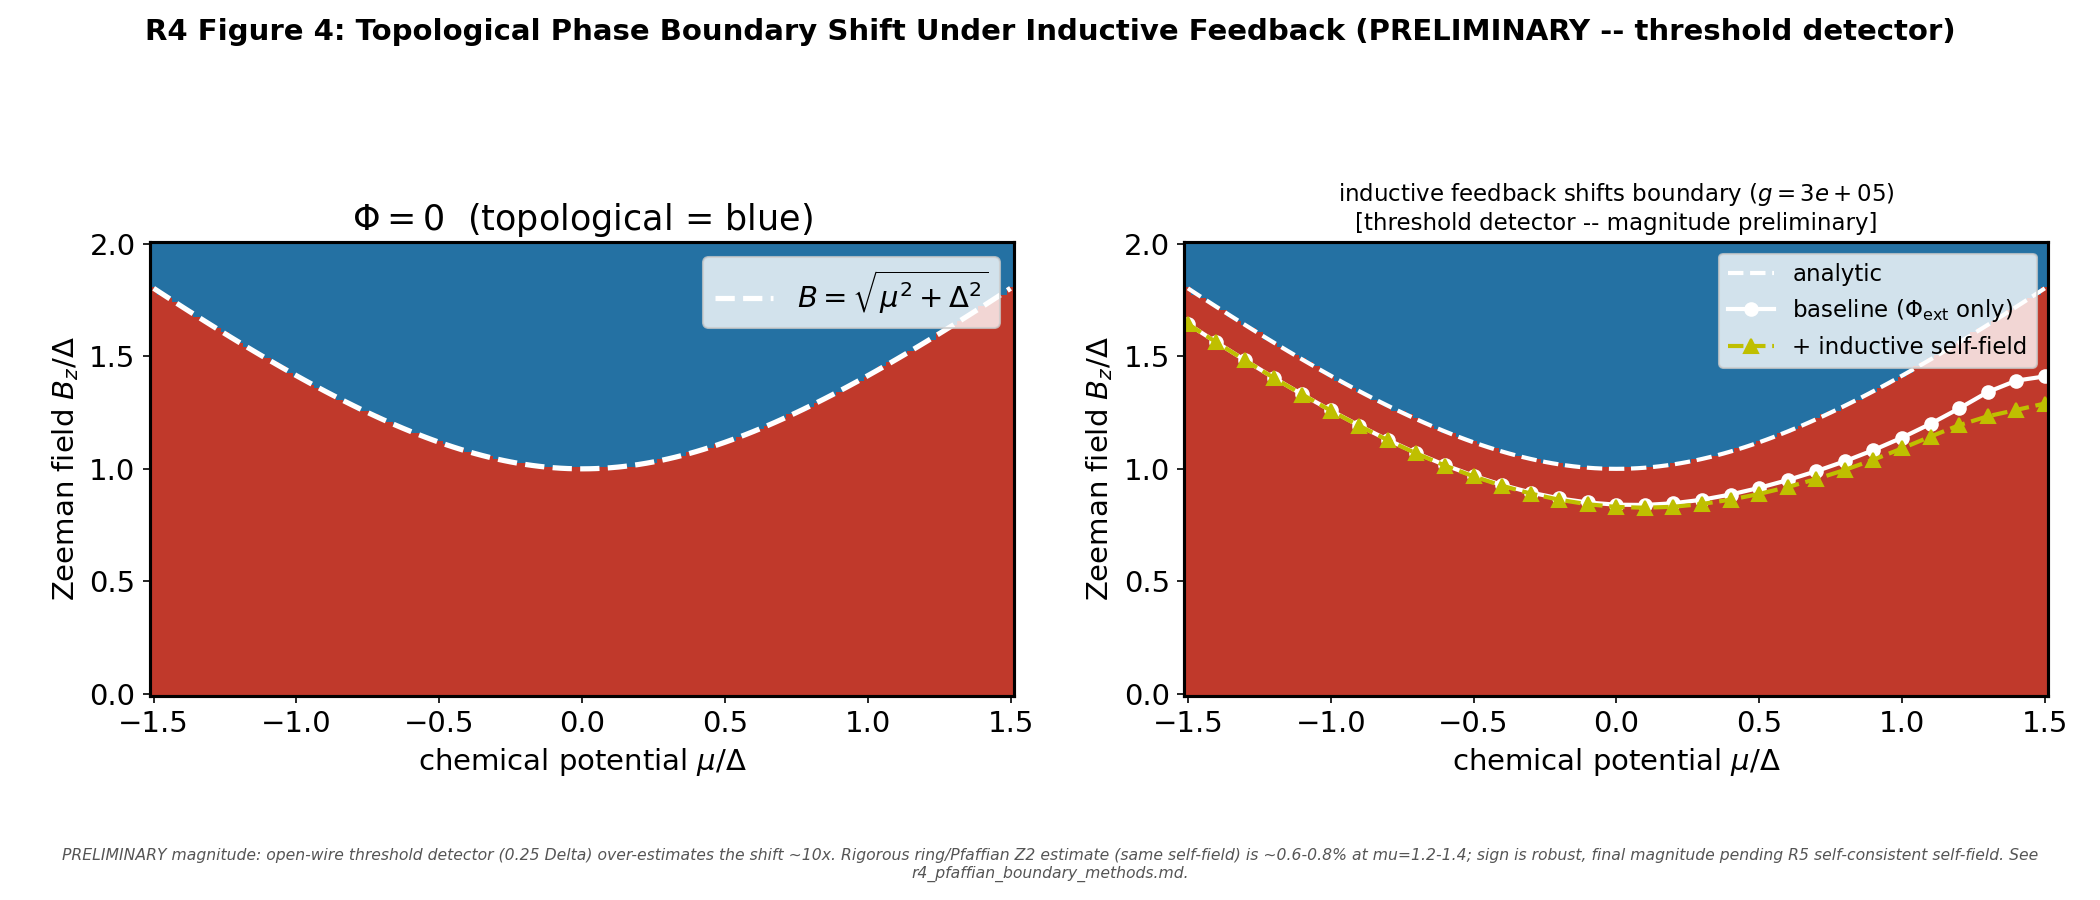
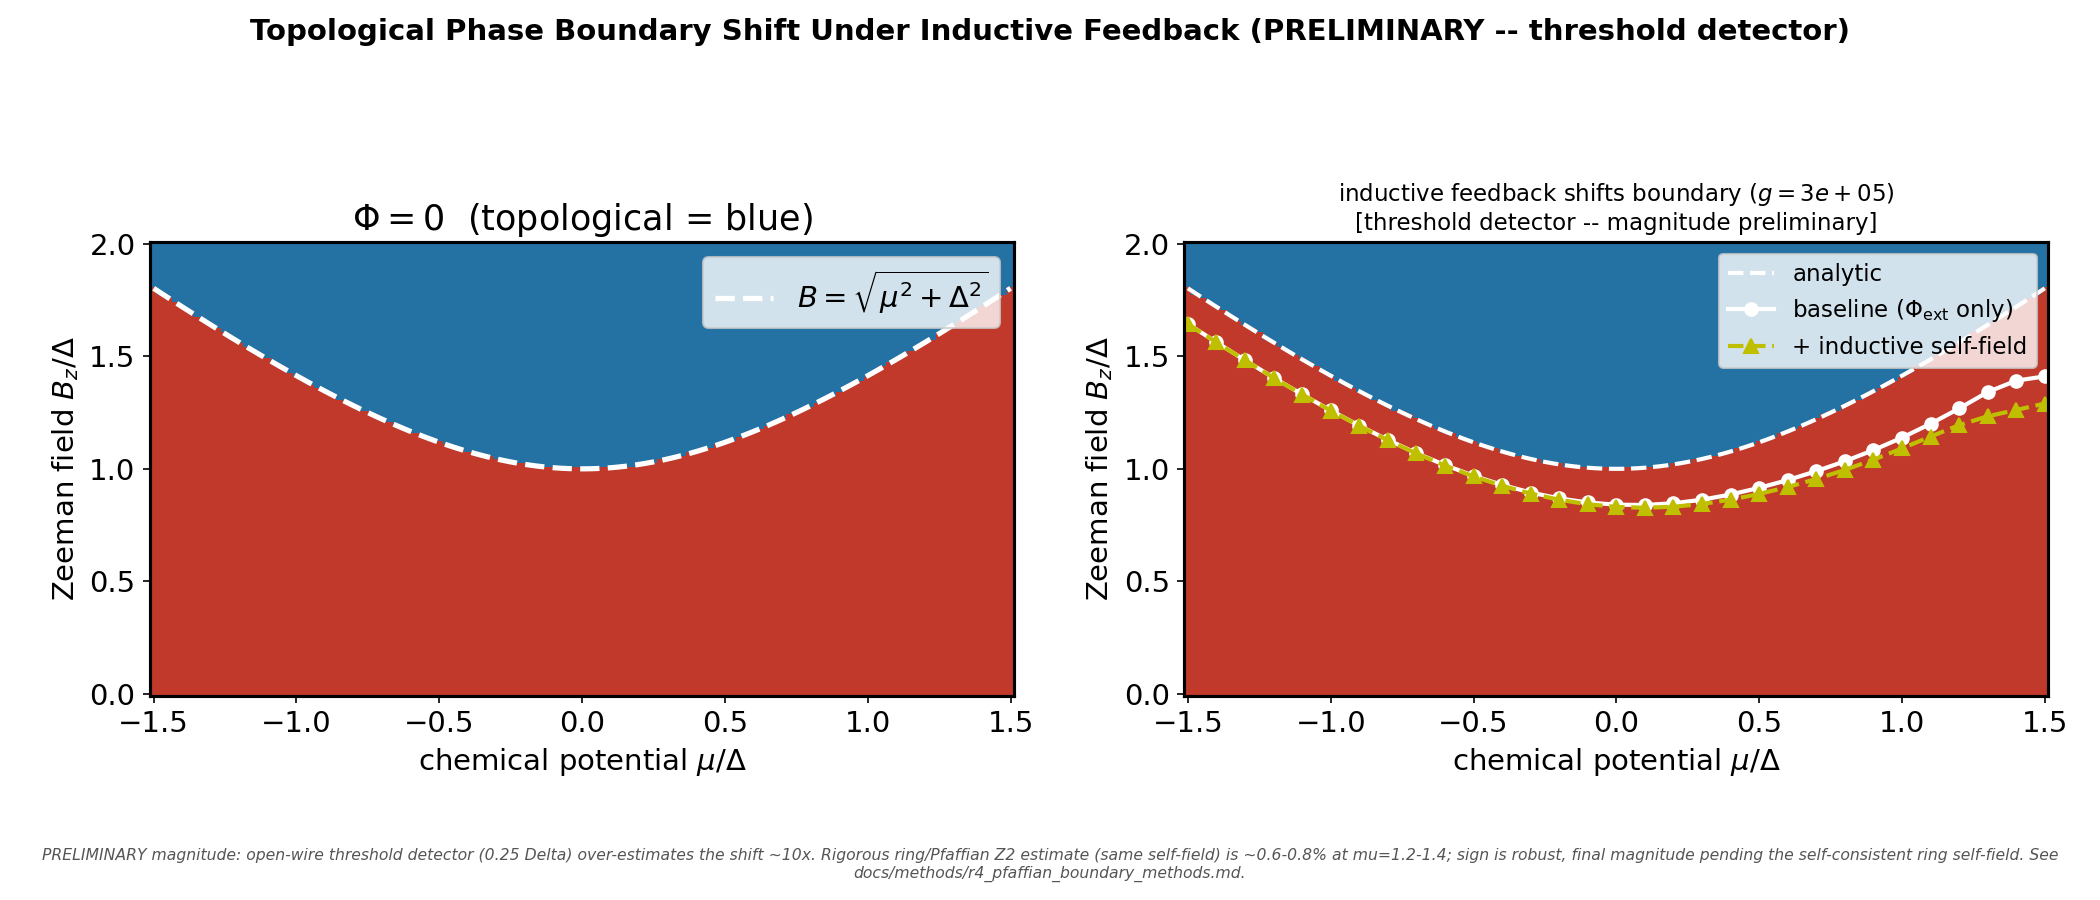
Regenerate the phase-shift preview figure so its title and caveat line carry the current text, and record the 6,135 s run in the docs
r4_figure4_phase_shift_preview.png was recomputed with figure4_phase_shift_preview() of
src/bdg_r4_em_coupling.py, run unchanged in a scratch clone. Only the title (pixel rows 18 to 45)
and the caveat line (rows 848 to 882) differ; the panels between them are identical. The run returned
-1.18 % at mu = 0 and a largest shift of -9.36 % at mu = 1.4, the value quoted in the paper and the R4
methods note. REPRODUCING.md, FIGURE_PROVENANCE.md and KNOWN_ISSUES.md no longer list the figure as
to be regenerated before release.

Changed region(s): [[0.0619, 0.0, 0.9286, 0.0622], [0.031, 0.9333, 0.9905, 0.9956]]

diff --git a/docs/FIGURE_PROVENANCE.md b/docs/FIGURE_PROVENANCE.md
@@ -25,7 +25,7 @@ The caption column is the text as it stands after the correction of 2026-10-26 (
 3. **`docs/paper_audit/PAPER_SUMMARY_AND_VERIFICATION_LOG.md` numbered the figure files as the figures of the paper and named the wrong generators** for `fig3_null_validation.png` and `fig6_multisubband_summary.png`. The log keeps its original text and carries dated correction notes (2026-10-25), see `KNOWN_ISSUES.md`, section 2.
 4. **Seven images had no script in the repository that could draw them from the saved data.** The plotting code of `r5_figure10_shift_vs_g.png`, `r5_figure11_headline_validation.png`, `r9_multisubband_summary.png` and of the paper's `fig3_null_validation.png` and `fig6_multisubband_summary.png` was in neither the repository nor its history; `r9_disorder_summary.png` (and the paper's copy of it) was drawn only at the end of the 4,627 s full run; and the paper's `fig4_bounded_pole.png` was made with an ad hoc script, `regen_fig3.py`, that was never committed. **Resolved:** each now has a script in `scripts/` that draws it from the committed data. The plotting code of the first five is a reconstruction fitted to the committed images, not the code that first made them (`KNOWN_ISSUES.md`, section 3).
 5. **Still without a script:** `results/disorder/r9_disorder_summary.SUPERSEDED_task4_3.png`, the record of a superseded result (drawn by an earlier version of `make_figures()`). It is kept on purpose.
-6. **Stale label, regeneration needed before the release:** `results/em_feedback_detector_comparison/r4_figure4_phase_shift_preview.png` still carries the title "R4 Figure 4" and the old `src/` path of its methods note. The code that draws it (`figure4_phase_shift_preview()` in `src/bdg_r4_em_coupling.py`) already has the corrected text, but recomputing it takes more than 45 minutes and was not done. The command to regenerate it is in `REPRODUCING.md`, section 4, and the item is listed under "regenerate before release" in `KNOWN_ISSUES.md`, section 3.
+6. **Stale label, regenerated on 2026-10-28:** `results/em_feedback_detector_comparison/r4_figure4_phase_shift_preview.png` carried the title "R4 Figure 4" and the old `src/` path of its methods note. The code that draws it (`figure4_phase_shift_preview()` in `src/bdg_r4_em_coupling.py`) already had the corrected text; the function was recomputed unchanged (6,135 s) and the image now has it. The panels are identical to the previous image; only the title and the caveat line differ (`KNOWN_ISSUES.md`, section 3). The command to regenerate it is in `REPRODUCING.md`, section 4.
 
 ## 3. Images under `results/`
 
@@ -45,7 +45,7 @@ The "Data files named" column lists the saved data files that the producing scri
 | `em_feedback_detector_comparison/r4_figure1_peierls_validation.png` | `src/bdg_r4_em_coupling.py` | none saved | over 10 min in all (section 4 of `REPRODUCING.md` gives the time of each figure) | long run; R4 saves no data file, so the figure is drawn only by recomputation |  |
 | `em_feedback_detector_comparison/r4_figure2_biot_savart.png` | `src/bdg_r4_em_coupling.py` | none saved | over 10 min in all (section 4 of `REPRODUCING.md` gives the time of each figure) | long run; R4 saves no data file, so the figure is drawn only by recomputation |  |
 | `em_feedback_detector_comparison/r4_figure3_current_density.png` | `src/bdg_r4_em_coupling.py` | none saved | over 10 min in all (section 4 of `REPRODUCING.md` gives the time of each figure) | long run; R4 saves no data file, so the figure is drawn only by recomputation |  |
-| `em_feedback_detector_comparison/r4_figure4_phase_shift_preview.png` | `src/bdg_r4_em_coupling.py` | none saved | over 10 min in all (section 4 of `REPRODUCING.md` gives the time of each figure) | long run; R4 saves no data file, so the figure is drawn only by recomputation; STALE LABEL: still titled 'R4 Figure 4' and cites the old `src/` path of the methods note; regenerate before the release (see `KNOWN_ISSUES.md`) |  |
+| `em_feedback_detector_comparison/r4_figure4_phase_shift_preview.png` | `src/bdg_r4_em_coupling.py` | none saved | 6,135 s for `figure4_phase_shift_preview()` alone (2026-10-28) | long run; R4 saves no data file, so the figure is drawn only by recomputation; recomputed on 2026-10-28 so that its title and caveat line carry the current text (see `KNOWN_ISSUES.md`, section 3) |  |
 | `em_feedback_detector_comparison/r4_figure5_flux_density.png` | `src/bdg_r4_em_coupling.py` | none saved | 762 s for `figure5_flux_density_profile()` alone (2026-10-28) | long run; R4 saves no data file, so the figure is drawn only by recomputation; recomputed on 2026-10-28 so that its caveat line carries the current text (see `KNOWN_ISSUES.md`, section 3) |  |
 | `em_feedback_detector_comparison/r4_figure6_pfaffian_vs_threshold.png` | `src/bdg_r4_em_coupling.py` | none saved | over 10 min in all (section 4 of `REPRODUCING.md` gives the time of each figure) | long run; R4 saves no data file, so the figure is drawn only by recomputation; byte copy is paper Fig. 3; a 676 s rerun of `validate_pfaffian_boundary()` reproduced it byte for byte | `fig2_pfaffian_vs_threshold.png` |
 | `finite_temperature/r9_finiteT_summary.png` | `src/bdg_r9_finite_temperature.py` (make_figures()) | `r9_finiteT_data.json` | `--full`, 915.5 s | long run, not rerun |  |

diff --git a/docs/KNOWN_ISSUES.md b/docs/KNOWN_ISSUES.md
@@ -59,7 +59,7 @@ record, and the methods notes describe how they were made.
   image is kept as the record and not redrawn. It is not in the paper. Its panel titles read "Task 4.1", "Task 4.2" and
   "Task 4.3" (the labels of the superseded first round); they are part of the record and were left as they are.
 - **R4 saves no data file**, only figures. Recomputing figure 6 (`validate_pfaffian_boundary()`) took 676 s on
-  2026-10-25; figure 4 had not finished after about 45 minutes (section 3); figure 5 took 762 s on 2026-10-28.
+  2026-10-25; figure 4 took 6,135 s and figure 5 762 s, both on 2026-10-28 (section 3).
 
 Apart from that superseded image, every committed image has a script that draws it: an `src/` module, or one of the
 `scripts/redraw_*.py` files for the figures whose plotting code is not in the repository. The Data availability paragraph
@@ -129,21 +129,24 @@ text or legend box. Details that remain:
   the original text strings the same code reproduces the previously committed image pixel for pixel; the new image
   differs from it only in the super-title ("R9 Track 1" removed) and in one legend entry ("R5 g_crit band" became
   "g_crit band").
-- **Regenerate before release: `results/em_feedback_detector_comparison/r4_figure4_phase_shift_preview.png` was not
-  redrawn.** The command is in [`REPRODUCING.md`](REPRODUCING.md), section 4 (it calls
-  `figure4_phase_shift_preview()` of `src/bdg_r4_em_coupling.py`; it was not run). The R4 module keeps
-  no data file, so redrawing it means recomputing a 121-point grid of open-wire critical-field searches. A comparison run
-  of the original and the restructured code had not finished after about 45 minutes and was abandoned. The committed
-  image therefore still has the title "R4 Figure 4: ..." and, in its caveat line, the old path
-  `src/r4_pfaffian_boundary_methods.md`, which is now `docs/methods/r4_pfaffian_boundary_methods.md`. The plotting code
-  in `src/bdg_r4_em_coupling.py` has the new text, so rerunning that module produces the corrected figure.
+- **`r4_figure4_phase_shift_preview.png` was recomputed on 2026-10-28** (6,135 s, `figure4_phase_shift_preview()` of
+  `src/bdg_r4_em_coupling.py`, run unchanged in a scratch clone and copied back; the command is in
+  [`REPRODUCING.md`](REPRODUCING.md), section 4). The R4 module keeps no data file, so redrawing it means recomputing 62
+  open-wire critical-field searches (31 values of mu, each with and without feedback); an earlier comparison run of the
+  original and the restructured code had not finished after about 45 minutes and was abandoned. The previous image had the
+  title "R4 Figure 4: ..." and, in its caveat line, the old path `src/r4_pfaffian_boundary_methods.md` (now
+  `docs/methods/r4_pfaffian_boundary_methods.md`) and "pending R5 self-consistent self-field"; the module's text is now
+  "pending the self-consistent ring self-field". The canvas size is the same, 42,955 of 1,890,000 pixels differ, all of
+  them in the title (pixel rows 18 to 45 of 900) or the caveat line (rows 848 to 882), and the panels between them
+  (rows 46 to 847) are identical to the committed image. The returned shifts are -1.18 % at mu = 0 and -9.36 % at
+  mu = 1.4 (the largest), the -9.36 % that the paper and `docs/methods/r4_pfaffian_boundary_methods.md` quote.
 - **`r4_figure5_flux_density.png` was recomputed on 2026-10-28** (762 s, `figure5_flux_density_profile()` of
   `src/bdg_r4_em_coupling.py`, run unchanged in a scratch clone and copied back). Its caveat line, like that of figure 4,
   still said "pending R5 self-consistent self-field. See r4_pfaffian_boundary_methods.md"; the module's text is now "pending
   the self-consistent ring self-field. See docs/methods/r4_pfaffian_boundary_methods.md". The canvas size is the same
   and every changed pixel lies in the caveat line (pixel rows 701 to 735 of 750); the panels and titles above it are identical
   to the committed image, and the printed peak phases (5.125e-08 rad unscaled, 1.537e-02 rad at g = 3e5) are the values
-  written in panel (c). Only figure 4 still waits for a recomputation.
+  written in panel (c). Figure 4 was recomputed in the same way (entry above).
 - **`r4_figure6_pfaffian_vs_threshold.png` was recomputed** with the unchanged function, once with the original code and
   once with the restructured code, in scratch directories. The returned arrays, the plotted-data fingerprint and a render
   without text were identical, and the original code reproduced the committed image byte for byte. The new image differs

diff --git a/docs/REPRODUCING.md b/docs/REPRODUCING.md
@@ -78,7 +78,7 @@ These were not rerun during the repository restructure. The times are those reco
 
 | Script | Arguments | Time | Source of the time | Writes |
 |---|---|--:|---|---|
-| `src/bdg_r4_em_coupling.py` | | > 10 min in total; figure 6 alone 676 s (an earlier measurement had put it above 15 min); figure 4 > 45 min, not finished; figure 5 762 s (2026-10-28) | measured | `em_feedback_detector_comparison/`: 6 PNG (figures 1 to 3 are the quick part; R4 saves no data file) |
+| `src/bdg_r4_em_coupling.py` | | > 10 min in total; figure 6 alone 676 s (an earlier measurement had put it above 15 min); figure 4 6,135 s (2026-10-28); figure 5 762 s (2026-10-28) | measured | `em_feedback_detector_comparison/`: 6 PNG (figures 1 to 3 are the quick part; R4 saves no data file) |
 | `src/bdg_r5_selfconsistent_ring.py` | | about 35 min | earlier README | `self_consistency_bifurcation/r5_results.json`, `r5_shift_comparison.csv` |
 | `src/bdg_r5_physically_meaningful_shift.py` | | about 40 min | earlier README | `r5_physical_shift_results.json` (the data of `r5_figure10`, `r5_figure11` and paper Fig. 4; those are drawn by `scripts/redraw_*.py`, section 3) |
 | `src/bdg_r5_anderson_mixing.py` | | not recorded | | `r5_anderson_results.json` |
@@ -92,12 +92,12 @@ These were not rerun during the repository restructure. The times are those reco
 | `src/bdg_r9_multisubband_bc.py` | | 5,711 s (N = 80), 4,257 s (N = 120), 406 s (N = 60) | `docs/methods/r9_multisubband_methods.md`, section 13 table | `multisubband/r9_multisubband_bc_M2_*.json` |
 | `src/bdg_r9_multisubband_bracket_scan.py` | | not recorded | | `multisubband/r9_multisubband_bracket_scan.json` |
 
-**Regenerate before release: R4 figure 4.** `results/em_feedback_detector_comparison/r4_figure4_phase_shift_preview.png`
-still has its old title ("R4 Figure 4: ...") and, in its caveat line, the old path `src/r4_pfaffian_boundary_methods.md`;
-the plotting code in `src/bdg_r4_em_coupling.py` already has the corrected text, but the image has not been redrawn because
-a run of `figure4_phase_shift_preview()` had not finished after about 45 minutes (see
-[`KNOWN_ISSUES.md`](KNOWN_ISSUES.md), section 3). To regenerate it, run this from the repository root (it calls the figure
-function only, not the whole module; it takes well over 45 minutes and overwrites the committed file):
+**R4 figure 4 was regenerated on 2026-10-28.** `results/em_feedback_detector_comparison/r4_figure4_phase_shift_preview.png`
+had its old title ("R4 Figure 4: ...") and, in its caveat line, the old path `src/r4_pfaffian_boundary_methods.md`; the
+plotting code in `src/bdg_r4_em_coupling.py` already had the corrected text. `figure4_phase_shift_preview()` was run
+unchanged in a scratch clone of the repository, took 6,135 s (102 min), and the image was copied back (see
+[`KNOWN_ISSUES.md`](KNOWN_ISSUES.md), section 3). To regenerate it again, run this from the repository root (it calls the
+figure function only, not the whole module; it takes about 100 minutes and overwrites the committed file):
 
 ```bash
 python -X utf8 -c "import sys; sys.path.insert(0, 'src'); import bdg_r4_em_coupling as r4; print(r4.figure4_phase_shift_preview())"
@@ -105,8 +105,8 @@ python -X utf8 -c "import sys; sys.path.insert(0, 'src'); import bdg_r4_em_coupl
 
 The function writes `results/em_feedback_detector_comparison/r4_figure4_phase_shift_preview.png` (the folder is fixed by
 the module, whatever the working directory) and returns the path, the shift in percent at mu = 0 and the largest shift.
-Afterwards `git diff --stat` should show that only this PNG changed; the file has not been checked against the
-regenerated image, and `FIGURE_PROVENANCE.md` and `KNOWN_ISSUES.md` should be updated when it has.
+The run of 2026-10-28 returned -1.18 % at mu = 0 and a largest shift of -9.36 % at mu = 1.4, the value that the paper
+and the R4 methods note quote.
 
 `src/bdg_parallel.py` is a helper imported by the sweep drivers, not a script to run. Its worker count and memory budget
 are fixed for the machine it was tuned on; see [`KNOWN_ISSUES.md`](KNOWN_ISSUES.md).
